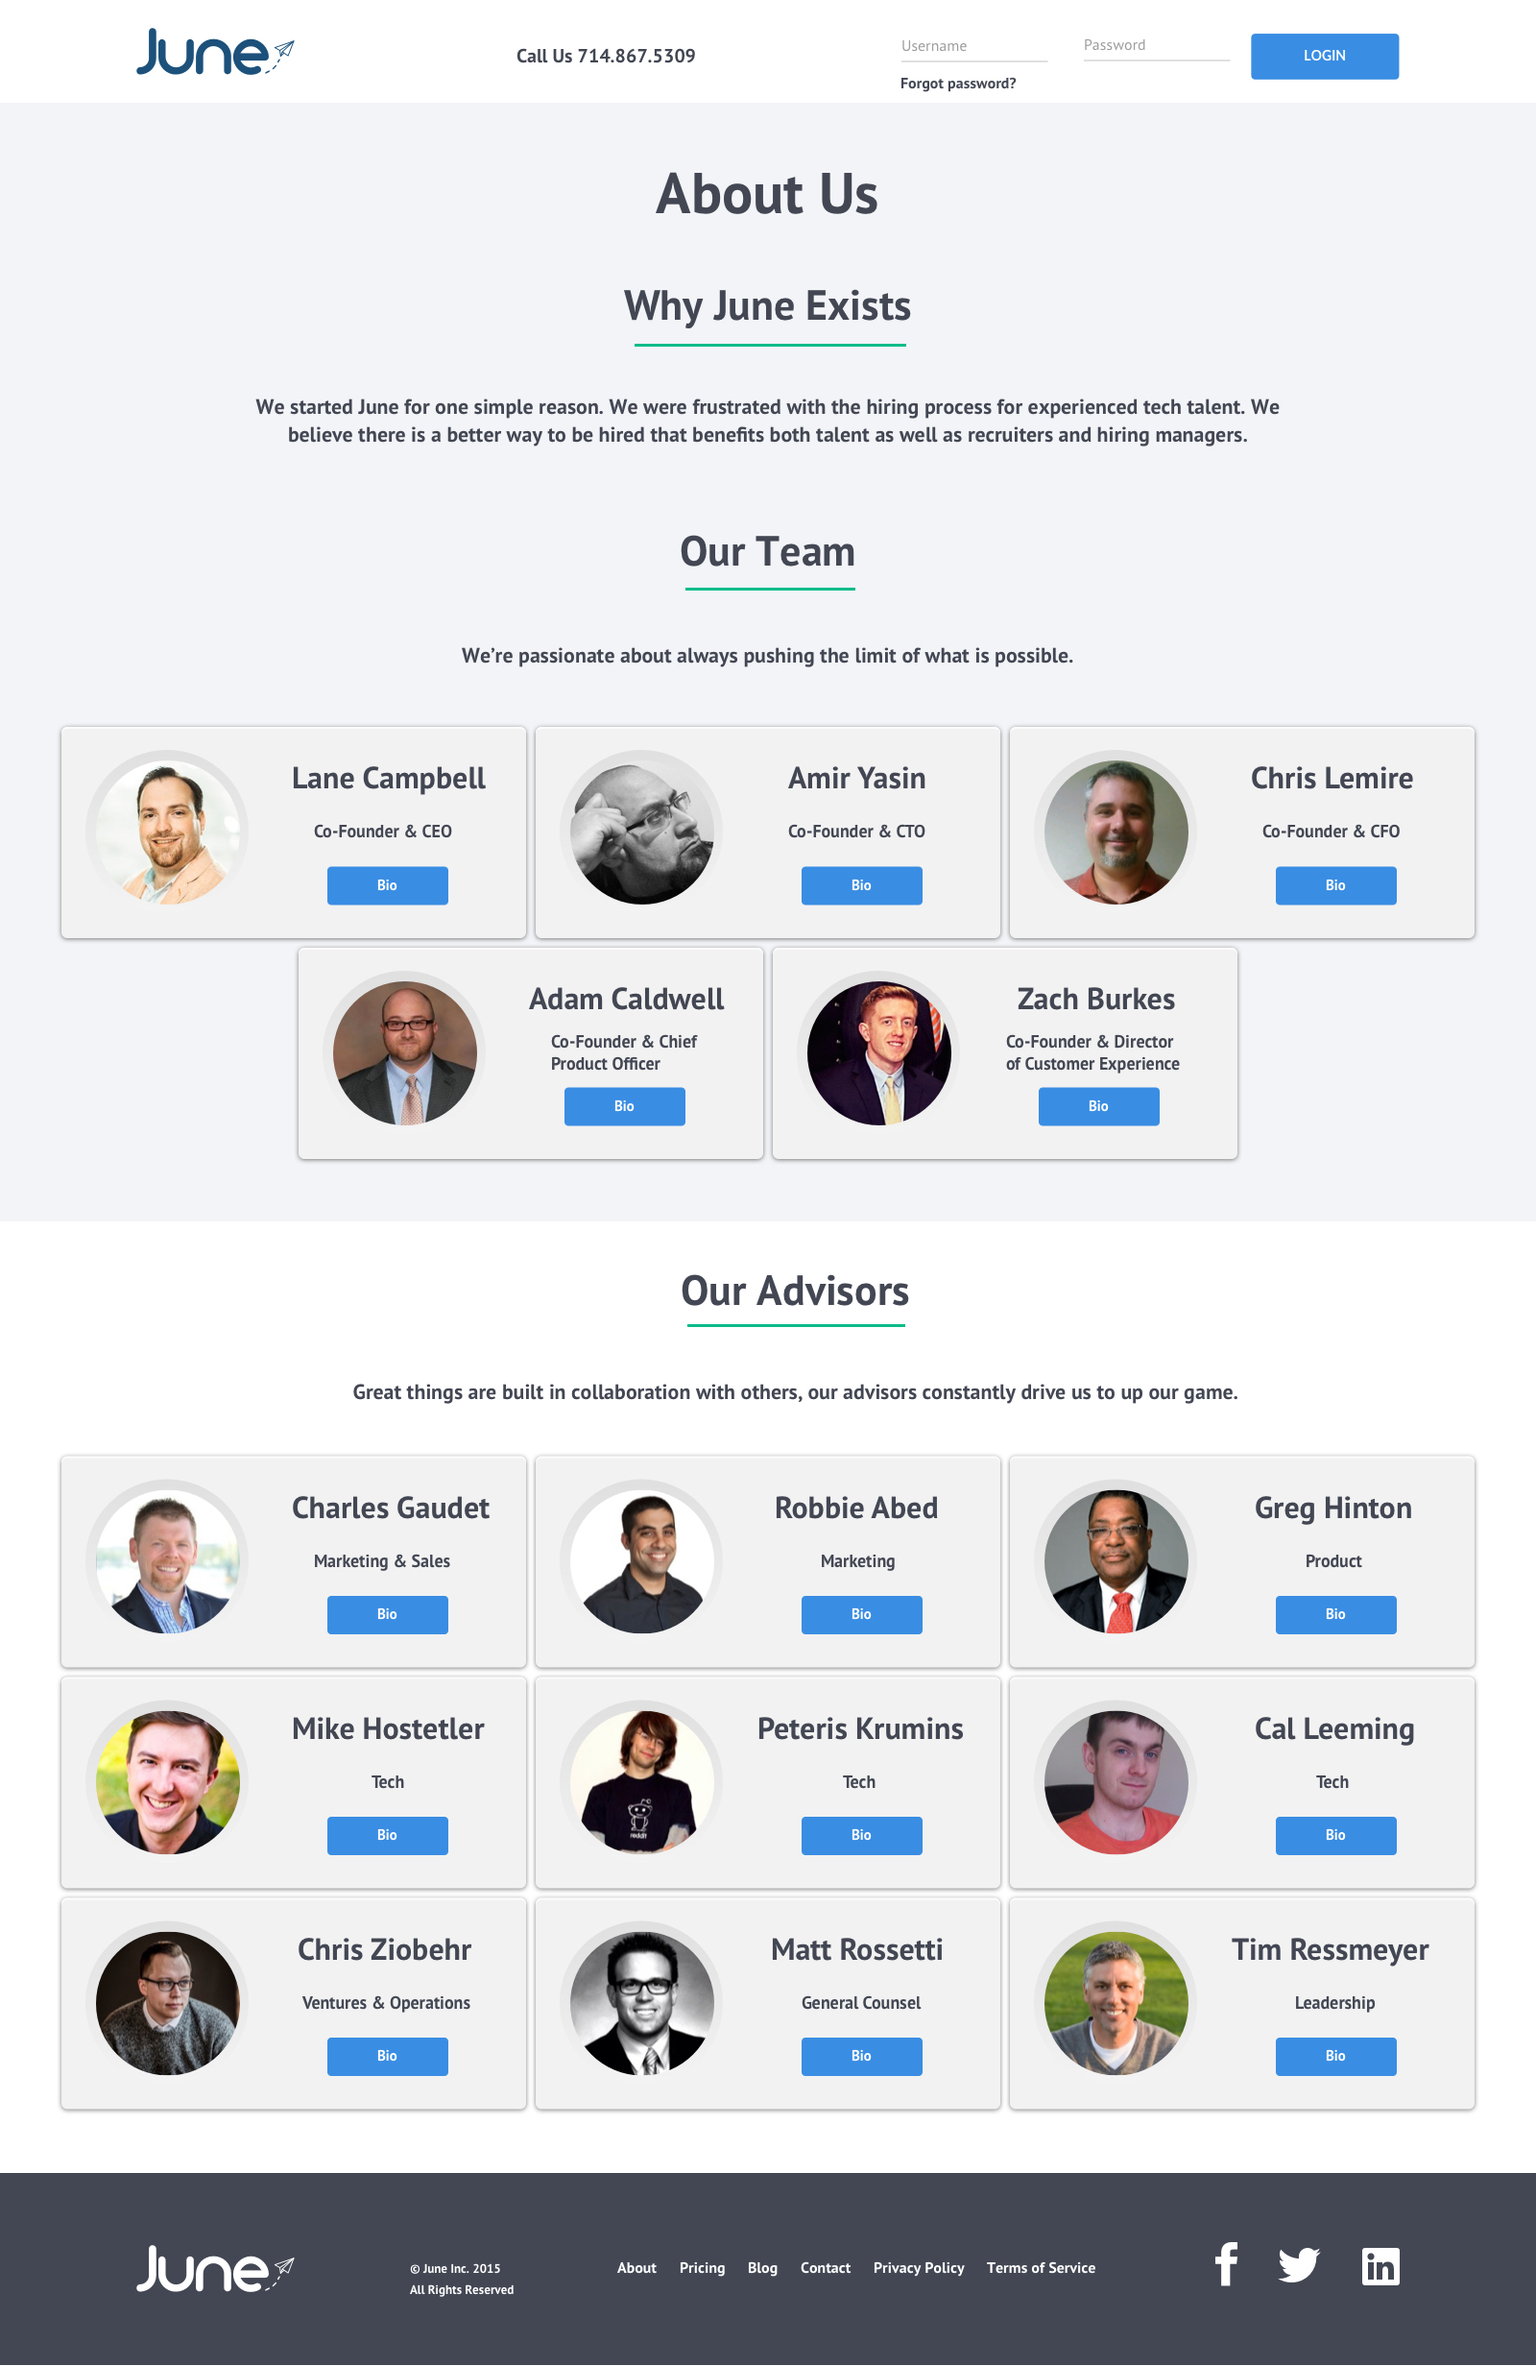
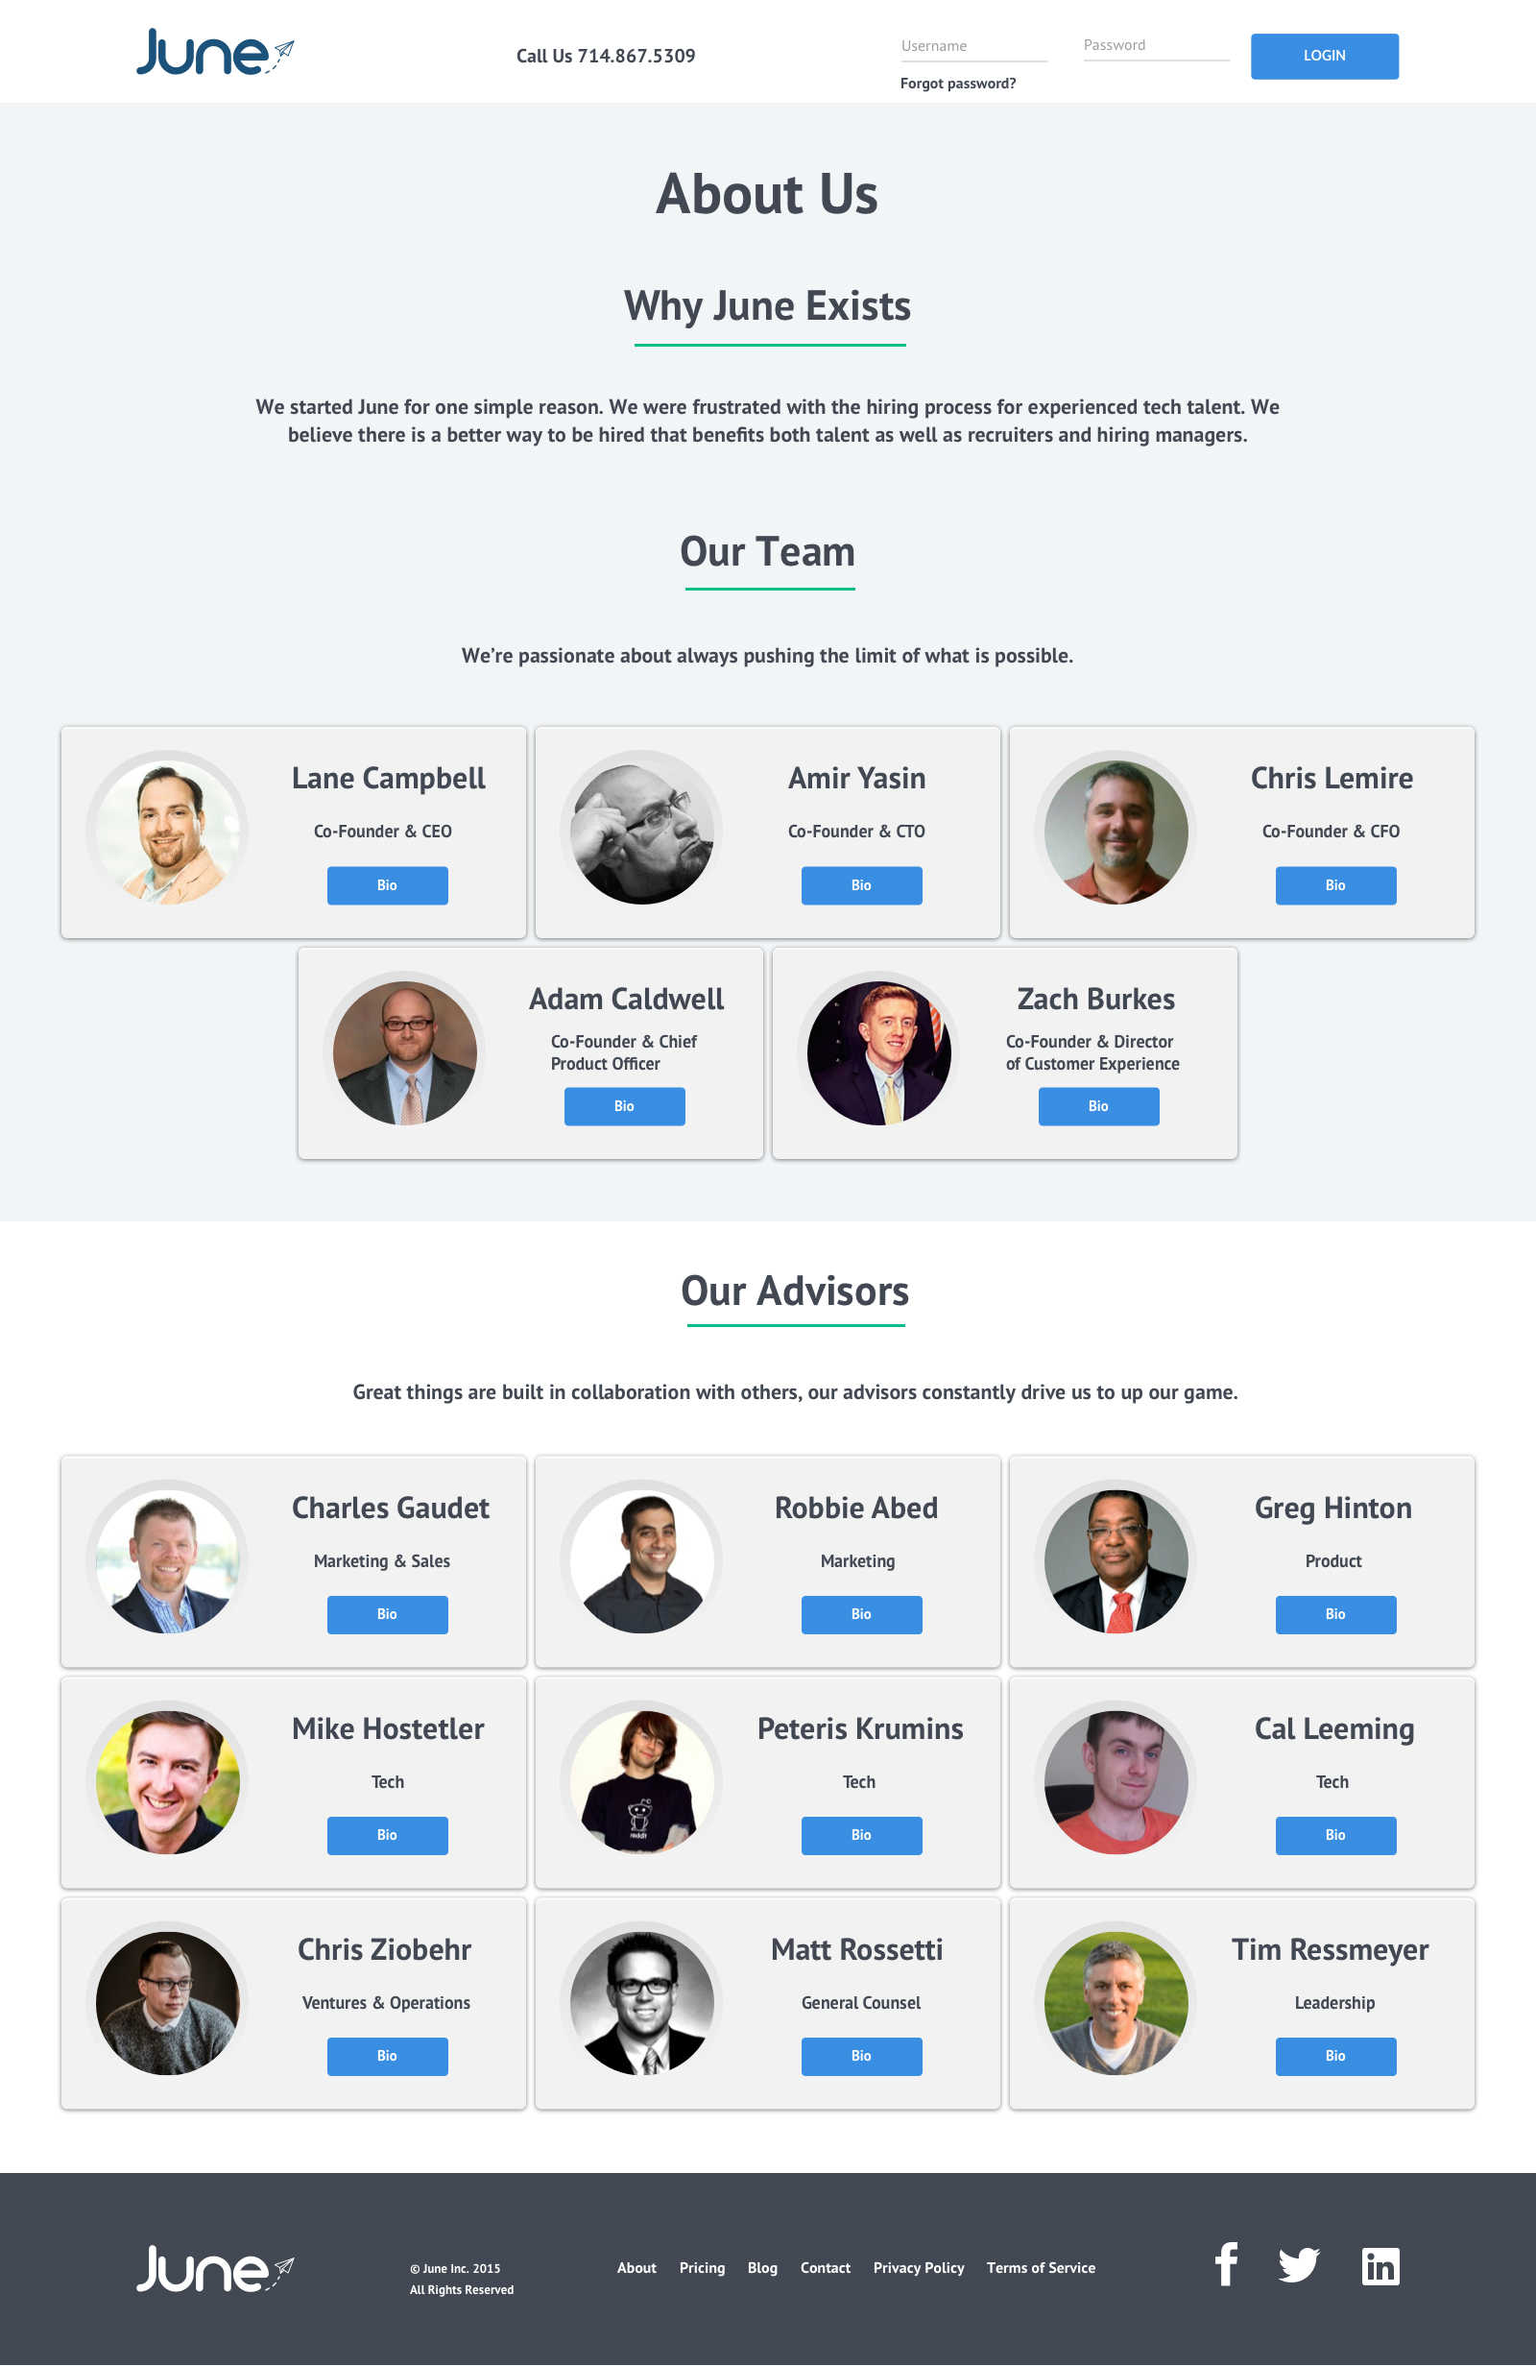
Reduce file sizes

diff --git a/index.html b/index.html
@@ -207,7 +207,7 @@
 										With design directions established, I moved forward with creating a moodboard and three distinct style tiles to present to the client.
 									</p>
 									<br></br>
-									<img src="img/moodboard.png" class="img-responsive image-modal" data-mfp-src="img/moodboard.png  alt="" title="Moodboard">
+									<img src="img/moodboard.jpg" class="img-responsive image-modal" data-mfp-src="img/moodboard.jpg  alt="" title="Moodboard">
 									<br></br>
 									<img src="img/playfulstyletile.jpg" class="img-responsive image-modal" data-mfp-src="img/playfulstyletile.jpg  alt="" title="Playful Tile">
 									<br></br>
